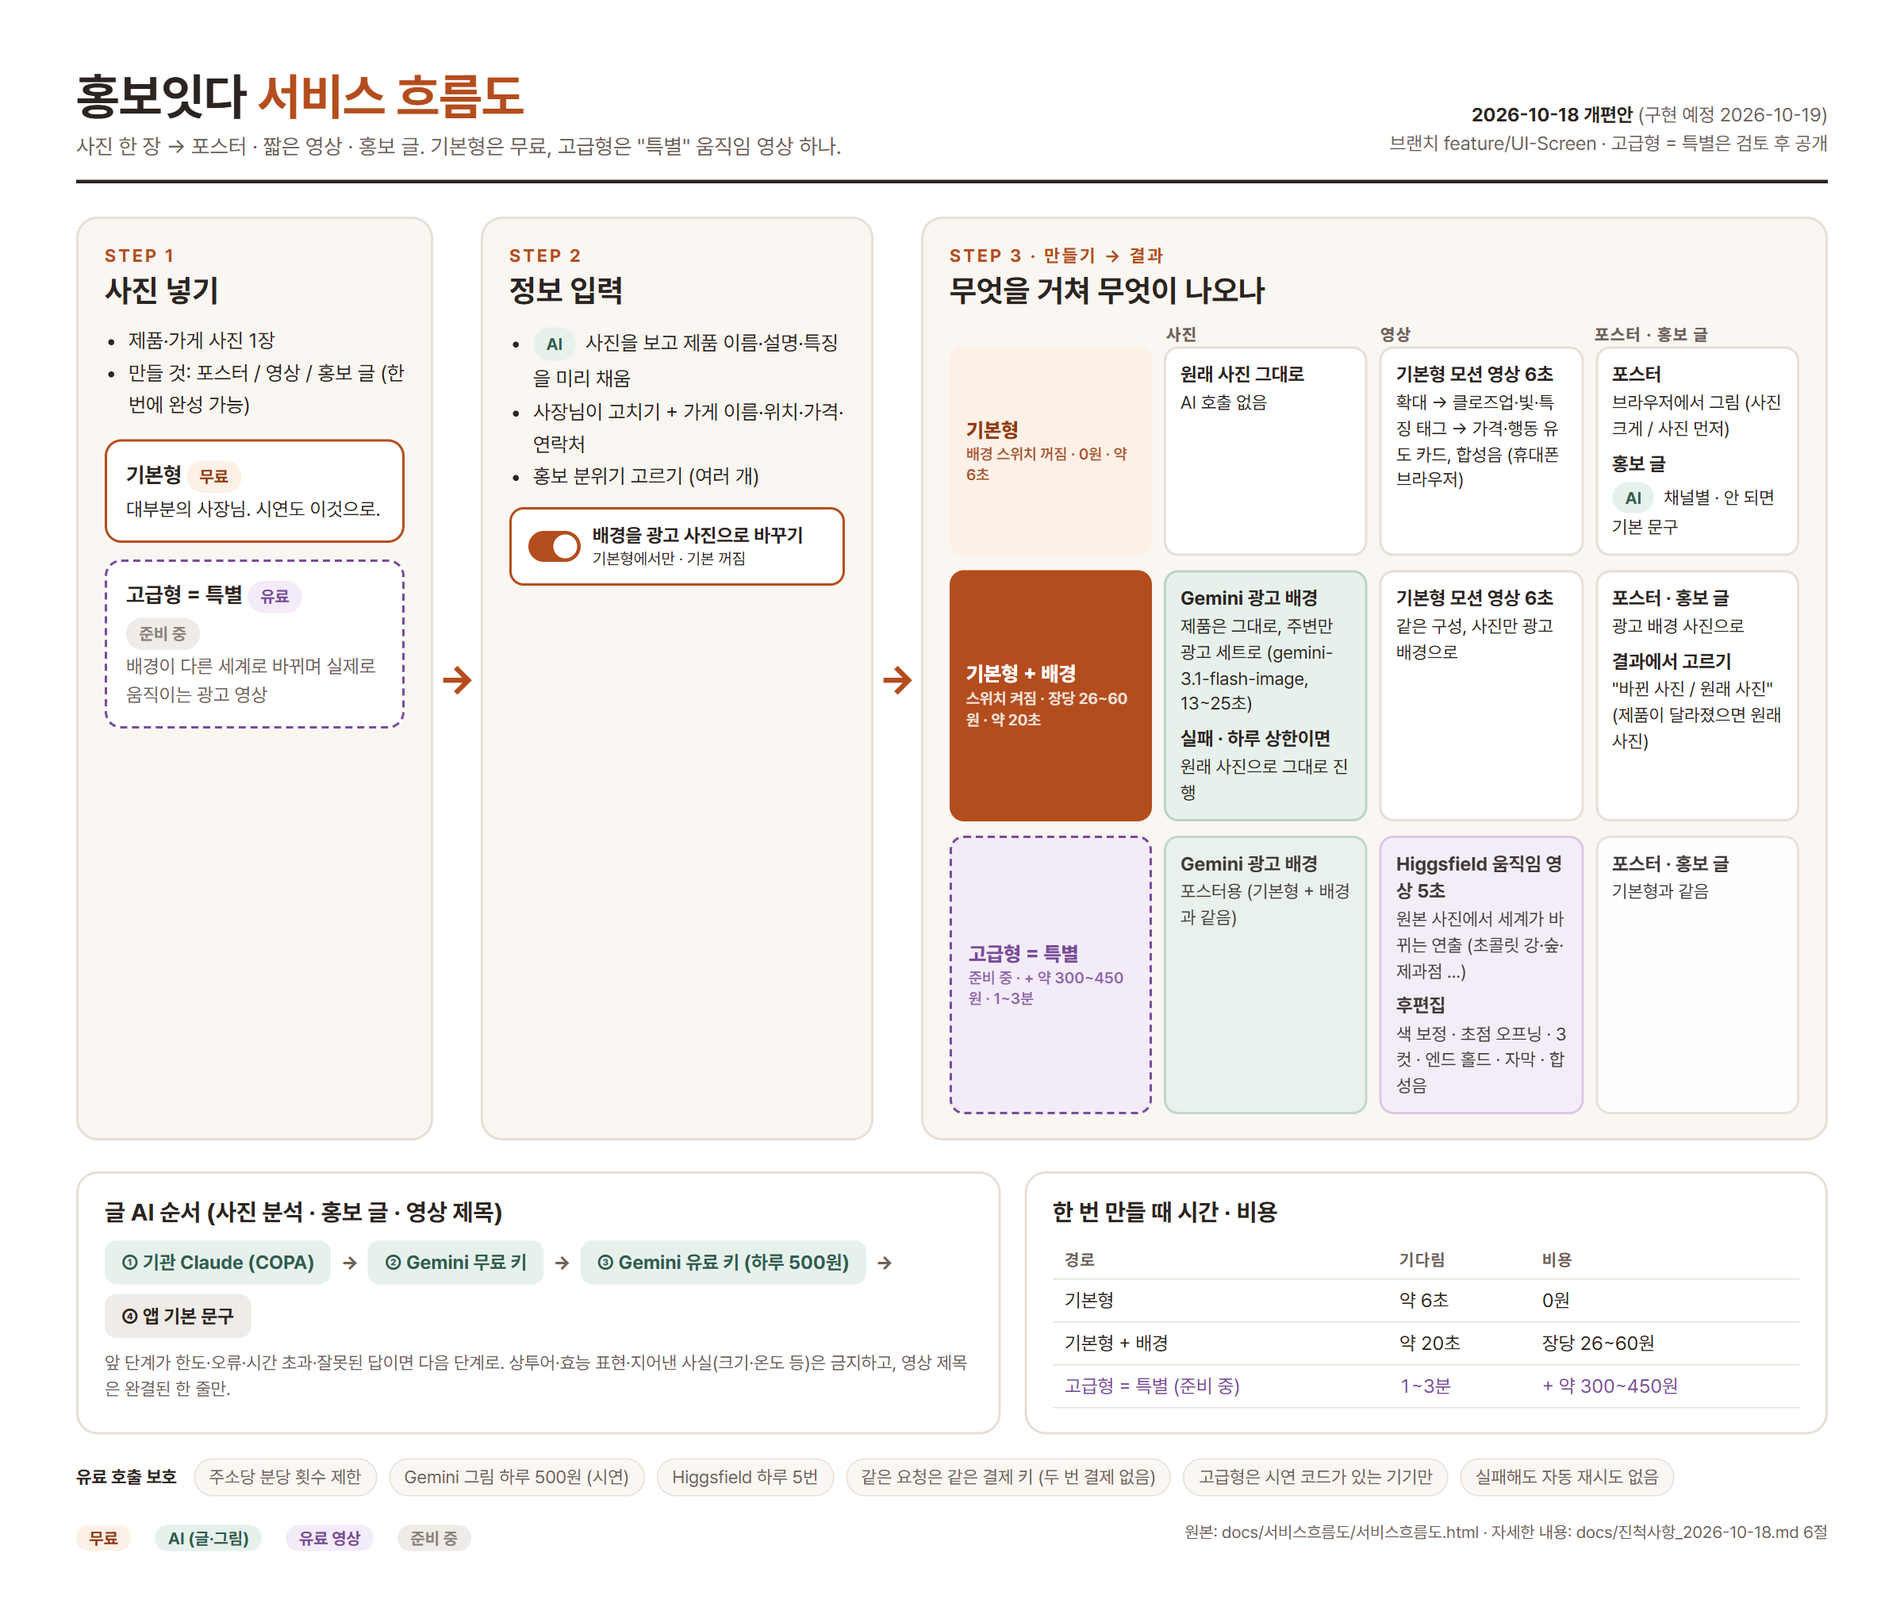
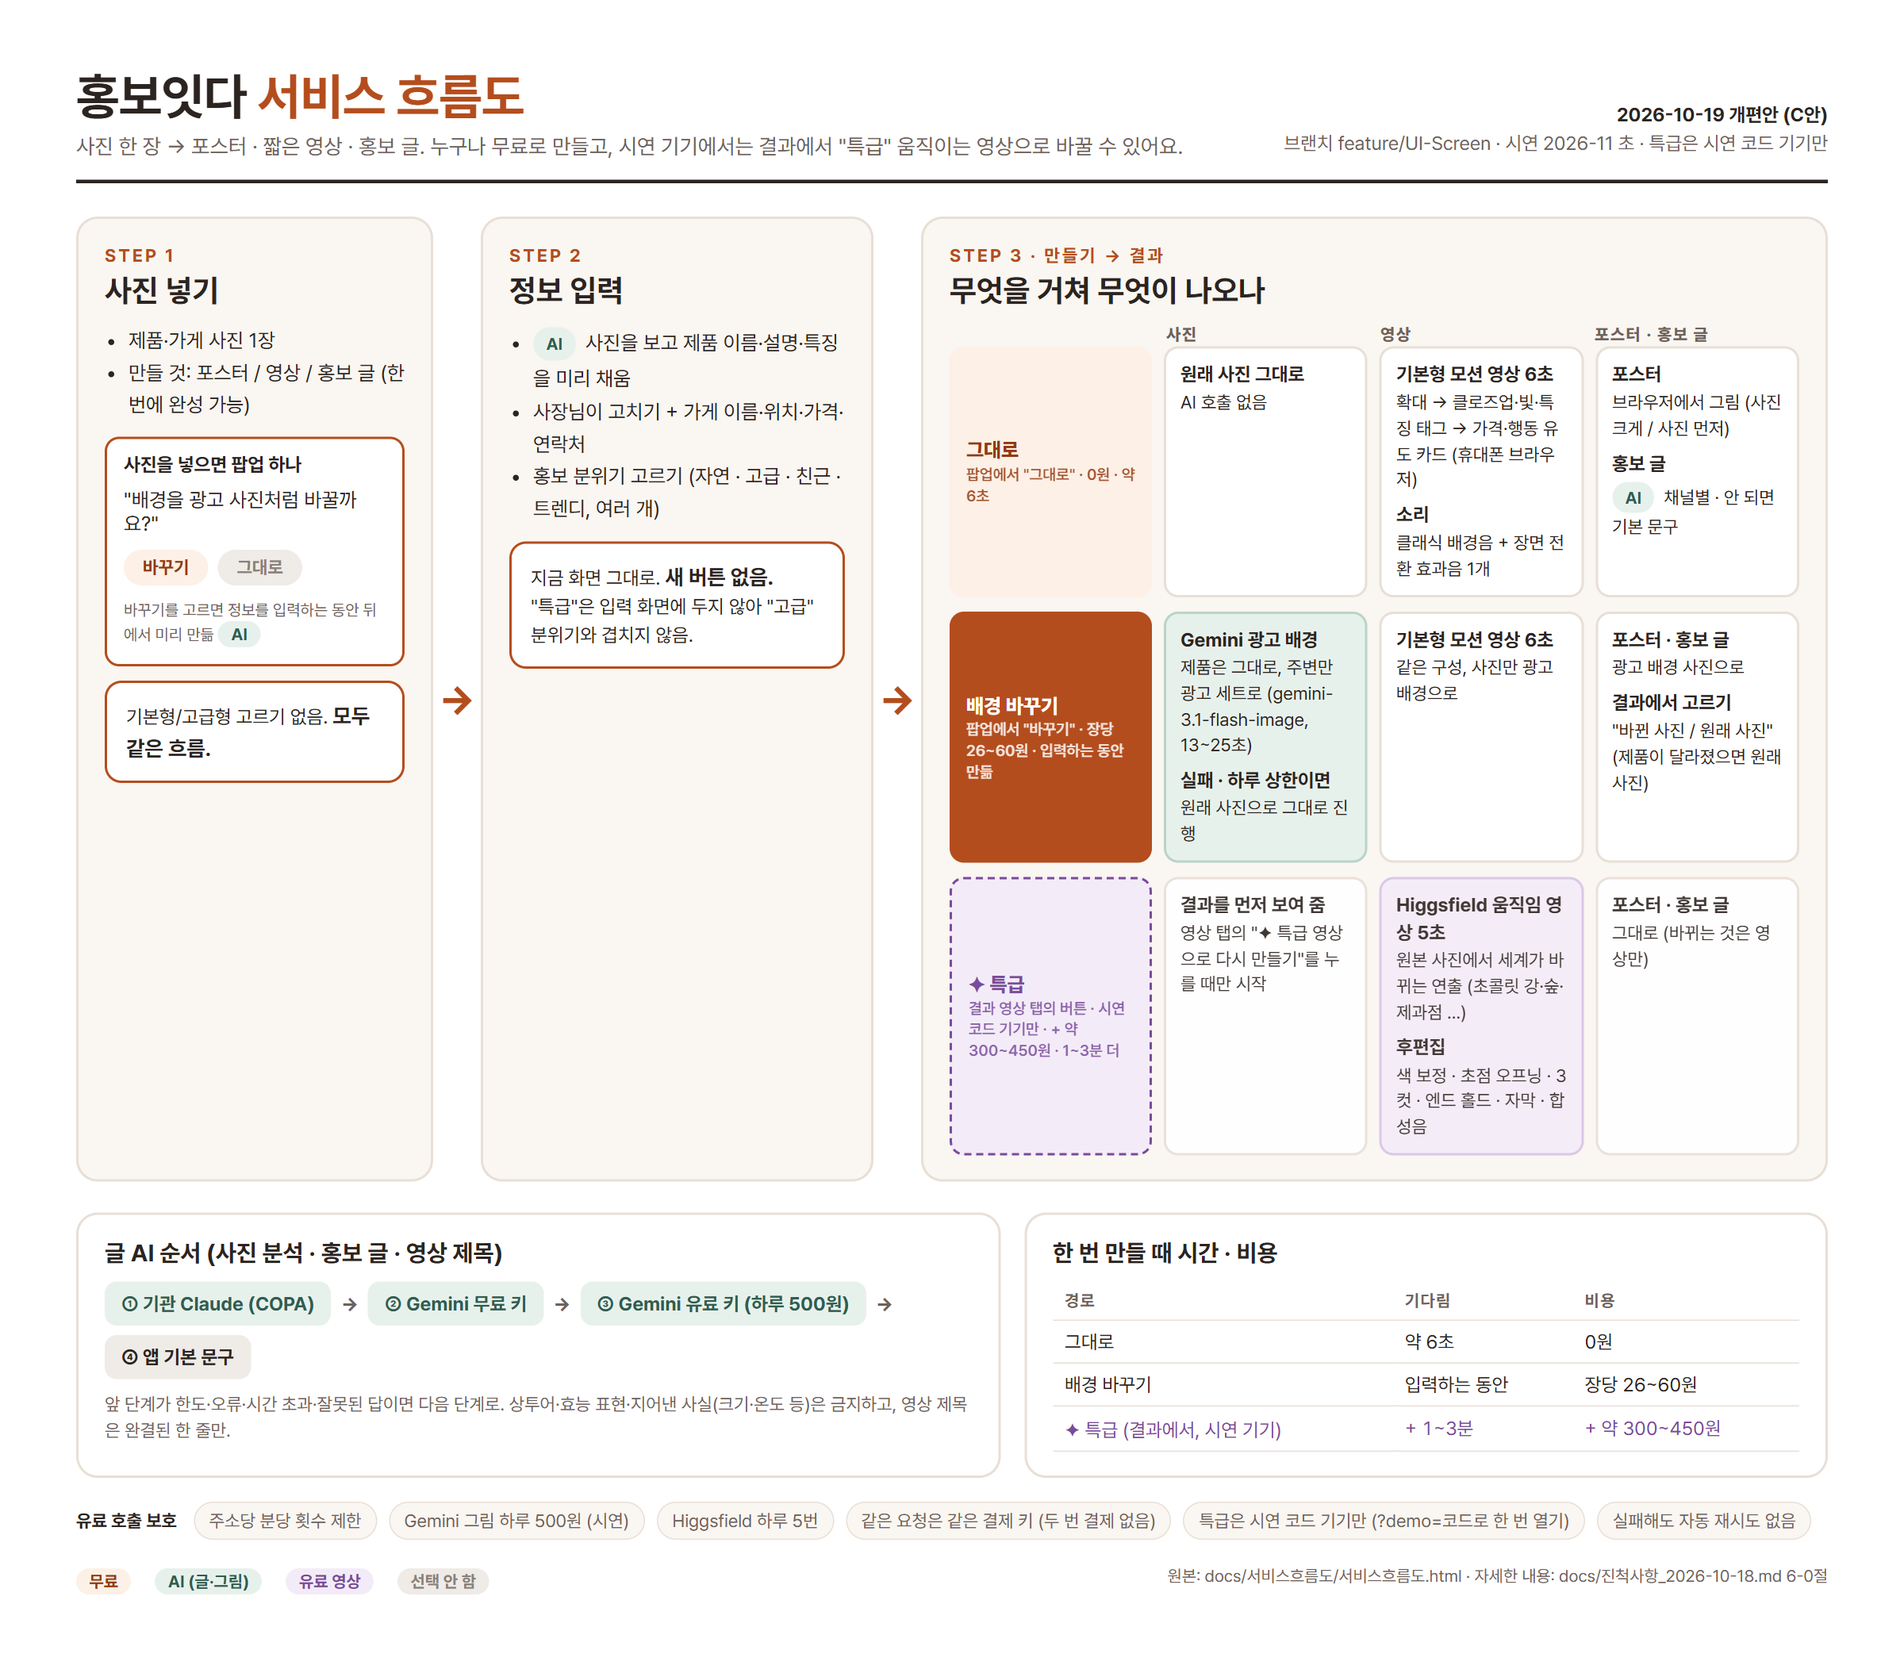
docs: plan C — background popup on the photo, 특급 upgrade on the result, classical sound
- the photo step asks once whether to turn the background into an ad photo (made while the owner types);
  the input step stays as it is, so 특급 never collides with the 고급 mood; the result's video tab offers
  "✦ 특급 영상으로 다시 만들기" on demo-code devices only (PREMIUM_ACCESS_CODE on Vercel, ?demo= once)
- sound: classical bed + one transition effect from licensed recordings instead of the synthetic whoosh/chime
- sign-up later with Supabase Auth; a two-week schedule to the demo and what must be verified first
- service flow PNG redrawn for plan C

diff --git a/ad_prototype/docs/서비스흐름도/서비스흐름도.html b/ad_prototype/docs/서비스흐름도/서비스흐름도.html
@@ -5,7 +5,7 @@
 <title>홍보잇다 서비스 흐름도</title>
 <link rel="stylesheet" href="https://cdn.jsdelivr.net/gh/orioncactus/pretendard@v1.3.9/dist/web/variable/pretendardvariable.min.css">
 <style>
-  /* 홍보잇다 service flow, 2026-10-18 plan: 기본형 (+ background switch) and 고급형 = 특별. Source of 서비스흐름도.png. */
+  /* 홍보잇다 service flow, 2026-10-19 plan C: background popup on the photo step, 특급 upgrade on the result. Source of 서비스흐름도.png. */
   :root {
     --brand: #b44d1d; --brand-dark: #93390f; --brand-soft: #fdf0e6;
     --ink: #2b2420; --sub: #6e625a; --line: #e8dfd6; --card: #faf6f1; --paper: #ffffff;
@@ -82,9 +82,9 @@
   <header>
     <div>
       <h1>홍보잇다 <span>서비스 흐름도</span></h1>
-      <p>사진 한 장 → 포스터 · 짧은 영상 · 홍보 글. 기본형은 무료, 고급형은 "특별" 움직임 영상 하나.</p>
+      <p>사진 한 장 → 포스터 · 짧은 영상 · 홍보 글. 누구나 무료로 만들고, 시연 기기에서는 결과에서 "특급" 움직이는 영상으로 바꿀 수 있어요.</p>
     </div>
-    <div class="meta"><b>2026-10-18 개편안</b> (구현 예정 2026-10-19)<br>브랜치 feature/UI-Screen · 고급형 = 특별은 검토 후 공개</div>
+    <div class="meta"><b>2026-10-19 개편안 (C안)</b><br>브랜치 feature/UI-Screen · 시연 2026-11 초 · 특급은 시연 코드 기기만</div>
   </header>
 
   <div class="steps">
@@ -96,8 +96,8 @@
         <li>제품·가게 사진 1장</li>
         <li>만들 것: 포스터 / 영상 / 홍보 글 (한 번에 완성 가능)</li>
       </ul>
-      <div class="tier basic"><strong>기본형</strong> <span class="chip free">무료</span><br>대부분의 사장님. 시연도 이것으로.</div>
-      <div class="tier premium"><strong>고급형 = 특별</strong> <span class="chip paid">유료</span> <span class="chip wait">준비 중</span><br>배경이 다른 세계로 바뀌며 실제로 움직이는 광고 영상</div>
+      <div class="switch" style="flex-direction:column;align-items:flex-start"><span><b>사진을 넣으면 팝업 하나</b></span><span style="font-size:17px">"배경을 광고 사진처럼 바꿀까요?"</span><span><span class="chip free" style="font-size:15px;padding:6px 16px">바꾸기</span> <span class="chip wait" style="font-size:15px;padding:6px 16px">그대로</span></span><small style="color:var(--sub)">바꾸기를 고르면 정보를 입력하는 동안 뒤에서 미리 만듦 <span class="chip ai">AI</span></small></div>
+      <div class="tier basic" style="margin-top:12px">기본형/고급형 고르기 없음. <strong>모두 같은 흐름.</strong></div>
     </section>
     <div class="arrow">→</div>
     <!-- ② -->
@@ -107,9 +107,9 @@
       <ul>
         <li><span class="chip ai">AI</span> 사진을 보고 제품 이름·설명·특징을 미리 채움</li>
         <li>사장님이 고치기 + 가게 이름·위치·가격·연락처</li>
-        <li>홍보 분위기 고르기 (여러 개)</li>
+        <li>홍보 분위기 고르기 (자연 · 고급 · 친근 · 트렌디, 여러 개)</li>
       </ul>
-      <div class="switch"><i></i><span><b>배경을 광고 사진으로 바꾸기</b><br><small>기본형에서만 · 기본 꺼짐</small></span></div>
+      <div class="tier basic">지금 화면 그대로. <strong>새 버튼 없음.</strong><br>"특급"은 입력 화면에 두지 않아 "고급" 분위기와 겹치지 않음.</div>
     </section>
     <div class="arrow">→</div>
     <!-- ③④ -->
@@ -119,22 +119,22 @@
       <div class="colhead"><span></span><span>사진</span><span>영상</span><span>포스터 · 홍보 글</span></div>
       <div class="lanes">
         <div class="lane b0">
-          <div class="who">기본형<small>배경 스위치 꺼짐 · 0원 · 약 6초</small></div>
+          <div class="who">그대로<small>팝업에서 "그대로" · 0원 · 약 6초</small></div>
           <div class="box"><b>원래 사진 그대로</b>AI 호출 없음</div>
-          <div class="box"><b>기본형 모션 영상 6초</b>확대 → 클로즈업·빛·특징 태그 → 가격·행동 유도 카드, 합성음 (휴대폰 브라우저)</div>
+          <div class="box"><b>기본형 모션 영상 6초</b>확대 → 클로즈업·빛·특징 태그 → 가격·행동 유도 카드 (휴대폰 브라우저)<br><b style="margin-top:6px">소리</b>클래식 배경음 + 장면 전환 효과음 1개</div>
           <div class="box"><b>포스터</b>브라우저에서 그림 (사진 크게 / 사진 먼저)<br><b style="margin-top:6px">홍보 글</b><span class="chip ai">AI</span> 채널별 · 안 되면 기본 문구</div>
         </div>
         <div class="lane b1">
-          <div class="who">기본형 + 배경<small>스위치 켜짐 · 장당 26~60원 · 약 20초</small></div>
+          <div class="who">배경 바꾸기<small>팝업에서 "바꾸기" · 장당 26~60원 · 입력하는 동안 만듦</small></div>
           <div class="box ai"><b>Gemini 광고 배경</b>제품은 그대로, 주변만 광고 세트로 (gemini-3.1-flash-image, 13~25초)<br><b style="margin-top:6px">실패 · 하루 상한이면</b>원래 사진으로 그대로 진행</div>
           <div class="box"><b>기본형 모션 영상 6초</b>같은 구성, 사진만 광고 배경으로</div>
           <div class="box"><b>포스터 · 홍보 글</b>광고 배경 사진으로<br><b style="margin-top:6px">결과에서 고르기</b>"바뀐 사진 / 원래 사진" (제품이 달라졌으면 원래 사진)</div>
         </div>
         <div class="lane p">
-          <div class="who">고급형 = 특별<small>준비 중 · + 약 300~450원 · 1~3분</small></div>
-          <div class="box ai"><b>Gemini 광고 배경</b>포스터용 (기본형 + 배경과 같음)</div>
+          <div class="who">✦ 특급<small>결과 영상 탭의 버튼 · 시연 코드 기기만 · + 약 300~450원 · 1~3분 더</small></div>
+          <div class="box"><b>결과를 먼저 보여 줌</b>영상 탭의 "✦ 특급 영상으로 다시 만들기"를 누를 때만 시작</div>
           <div class="box paid"><b>Higgsfield 움직임 영상 5초</b>원본 사진에서 세계가 바뀌는 연출 (초콜릿 강·숲·제과점 …)<br><b style="margin-top:6px">후편집</b>색 보정 · 초점 오프닝 · 3컷 · 엔드 홀드 · 자막 · 합성음</div>
-          <div class="box"><b>포스터 · 홍보 글</b>기본형과 같음</div>
+          <div class="box"><b>포스터 · 홍보 글</b>그대로 (바뀌는 것은 영상만)</div>
         </div>
       </div>
     </section>
@@ -155,9 +155,9 @@
       <h4>한 번 만들 때 시간 · 비용</h4>
       <table>
         <tr><th>경로</th><th>기다림</th><th>비용</th></tr>
-        <tr><td>기본형</td><td class="num">약 6초</td><td class="num">0원</td></tr>
-        <tr><td>기본형 + 배경</td><td class="num">약 20초</td><td class="num">장당 26~60원</td></tr>
-        <tr class="p"><td>고급형 = 특별 (준비 중)</td><td class="num">1~3분</td><td class="num">+ 약 300~450원</td></tr>
+        <tr><td>그대로</td><td class="num">약 6초</td><td class="num">0원</td></tr>
+        <tr><td>배경 바꾸기</td><td class="num">입력하는 동안</td><td class="num">장당 26~60원</td></tr>
+        <tr class="p"><td>✦ 특급 (결과에서, 시연 기기)</td><td class="num">+ 1~3분</td><td class="num">+ 약 300~450원</td></tr>
       </table>
     </section>
   </div>
@@ -165,12 +165,12 @@
   <div class="guards">
     <b>유료 호출 보호</b>
     <span>주소당 분당 횟수 제한</span><span>Gemini 그림 하루 500원 (시연)</span><span>Higgsfield 하루 5번</span>
-    <span>같은 요청은 같은 결제 키 (두 번 결제 없음)</span><span>고급형은 시연 코드가 있는 기기만</span><span>실패해도 자동 재시도 없음</span>
+    <span>같은 요청은 같은 결제 키 (두 번 결제 없음)</span><span>특급은 시연 코드 기기만 (?demo=코드로 한 번 열기)</span><span>실패해도 자동 재시도 없음</span>
   </div>
 
   <footer>
-    <div class="legend"><span class="chip free">무료</span><span class="chip ai">AI (글·그림)</span><span class="chip paid">유료 영상</span><span class="chip wait">준비 중</span></div>
-    <div>원본: docs/서비스흐름도/서비스흐름도.html · 자세한 내용: docs/진척사항_2026-10-18.md 6절</div>
+    <div class="legend"><span class="chip free">무료</span><span class="chip ai">AI (글·그림)</span><span class="chip paid">유료 영상</span><span class="chip wait">선택 안 함</span></div>
+    <div>원본: docs/서비스흐름도/서비스흐름도.html · 자세한 내용: docs/진척사항_2026-10-18.md 6-0절</div>
   </footer>
 </div>
 </body>

diff --git a/ad_prototype/docs/진척사항_2026-10-18.md b/ad_prototype/docs/진척사항_2026-10-18.md
@@ -67,7 +67,19 @@
 - 라테 "사진 먼저" 포스터가 기준 그림.
 - 내부 테스트 문구는 시연 JSON 재사용.
 
-## 6-0. 결정 (2026-10-18 밤, 구현은 2026-10-19)
+## 6-00. 최종 결정 — C안 (2026-10-19, 아래 6-0을 대체)
+
+**서비스 흐름도: [서비스흐름도/서비스흐름도.png](서비스흐름도/서비스흐름도.png)** (C안으로 다시 그림)
+
+- **사진 넣기:** 기본형/고급형 고르기를 없앤다. 사진을 넣으면 **팝업 하나** "배경을 광고 사진처럼 바꿀까요?" [바꾸기] [그대로]. "바꾸기"를 고르면 정보를 입력하는 동안 뒤에서 Gemini 광고 배경을 미리 만든다(실패·하루 500원 상한이면 원래 사진). 사진을 바꾸면 다시 묻는다.
+- **정보 입력:** 지금 화면 그대로(분위기 자연·고급·친근·트렌디). "특급"을 입력 화면에 두지 않아 "고급" 분위기와 겹치지 않는다. "고급형 특별 연출" 스위치는 없앤다.
+- **결과:** 배경을 바꿨으면 "바뀐 사진 / 원래 사진" 고르기. 영상 탭에 **"✦ 특급 영상으로 다시 만들기"** 버튼 — **시연 코드 기기에서만 보인다**(Vercel `PREMIUM_ACCESS_CODE`, 시연 휴대폰에서 `?demo=코드`로 한 번 열면 그 기기에 기억, 서버도 코드를 확인). 누르면 Higgsfield 움직임 영상(콘셉트) + 후편집, 1~3분, 약 300~450원. 포스터·홍보 글은 그대로.
+- **소리:** 합성음("휙"·"띵")을 빼고 **고급스러운 클래식 배경음 + 장면 전환 효과음 1개**(녹음 파일). 상업 이용 가능한 녹음만(곡이 아니라 녹음의 라이선스 확인, CC BY-NC/ND 불가), 출처·라이선스 증빙을 저장소에 보관.
+- **회원가입:** 나중에 **Supabase Auth**로(카카오 기본 지원, 회원·내 홍보물 저장을 한곳에서). 개인정보 처리방침 안내 필요.
+- **일정(시연까지 2주):** 1주차 앞 = 배경 팝업 + Gemini 배경(제품 보존 확인) + 결과 특급 버튼 + 소리 / 1주차 뒤 = Vercel 미리보기 배포·키 검증 + 시연 휴대폰(아이폰 포함) 처음부터 끝까지 / 2주차 앞 = Supabase 회원가입 + 내 홍보물 서버 저장 / 2주차 뒤 = 특급 영상 다듬기(유료 1~2번), 리허설, 예비.
+- 검증 없이 끝낼 수 없는 것: Vercel 실제 배포의 AI 호출(환경 변수·시간 제한·요청 크기 약 4.5MB), 실제 휴대폰의 영상 녹화·소리·공유, Gemini 제품 보존, 배포 환경에서 하루 상한·횟수 제한.
+
+## 6-0. 결정 (2026-10-18 밤, 6-00으로 대체됨)
 
 **서비스 흐름도: [서비스흐름도/서비스흐름도.png](서비스흐름도/서비스흐름도.png)** (원본 HTML 같은 폴더)
 

diff --git a/ad_prototype/인수인계서.md b/ad_prototype/인수인계서.md
@@ -29,7 +29,8 @@
 - 결과물 품질 기준과 점검 명령은 `.claude/skills/hongboitda-quality/SKILL.md`. "사진 먼저" 포스터 기준 그림은 `docs/기준그림/사진먼저_라테_4x5.webp`.
 
 **다음 담당자가 할 일 (순서대로)**
-1. **구조는 결정됨(2026-10-18 밤, 구현 2026-10-19).** [서비스 흐름도](docs/서비스흐름도/서비스흐름도.png) · [진척사항_2026-10-18](docs/진척사항_2026-10-18.md) 6-0절. 기본형(무료) + "배경을 광고 사진으로 바꾸기" 스위치(기본 꺼짐, Gemini 3.1 그림, 실패·하루 500원 상한이면 원래 사진, 결과에서 "바뀐/원래 사진" 고르기). 고급형 = 특별 하나(Higgsfield 움직임 영상), 지금은 "준비 중". 안전형 고급형과 "고급형 특별 연출" 스위치는 없앤다. 시연은 기본형 + 배경.
+0. **최종 구조는 C안(2026-10-19)**: 사진 넣을 때 배경 바꾸기 팝업, 입력 화면은 그대로, 결과 영상 탭에 "✦ 특급" 버튼(시연 코드 기기만), 클래식 배경음 + 효과음 1개, 회원가입은 나중에 Supabase Auth. 2주 일정 포함 [진척사항_2026-10-18](docs/진척사항_2026-10-18.md) 6-00절이 아래 1~3번보다 우선한다.
+1. (이전 결정, 6-00으로 대체) **구조는 결정됨(2026-10-18 밤, 구현 2026-10-19).** [서비스 흐름도](docs/서비스흐름도/서비스흐름도.png) · [진척사항_2026-10-18](docs/진척사항_2026-10-18.md) 6-0절. 기본형(무료) + "배경을 광고 사진으로 바꾸기" 스위치(기본 꺼짐, Gemini 3.1 그림, 실패·하루 500원 상한이면 원래 사진, 결과에서 "바뀐/원래 사진" 고르기). 고급형 = 특별 하나(Higgsfield 움직임 영상), 지금은 "준비 중". 안전형 고급형과 "고급형 특별 연출" 스위치는 없앤다. 시연은 기본형 + 배경.
 2. 먼저 **제품이 바뀌는 문제**를 푼다: 마카롱 사진으로 프롬프트 보강 1장 시험 → 안 되면 "제품 오려 내기 + AI 배경 합성".
 3. Gemini 배경을 서버 함수(`api/scene-*` 자리)로 옮기고 유료 보호(분당 횟수·하루 500원·결제 키)를 건다. Higgsfield 코드는 지우지 않고 특별용으로 꺼 둔다.
 4. **영상 소리 고치기**: 사용자 평 "깨지는 듣기 싫은 소리". 원인 짐작과 고칠 방향은 [진척사항_2026-10-18](docs/진척사항_2026-10-18.md) "영상 소리 문제". 그다음 **영상 + 소리 2가지를 실제 파일로 검증**.
